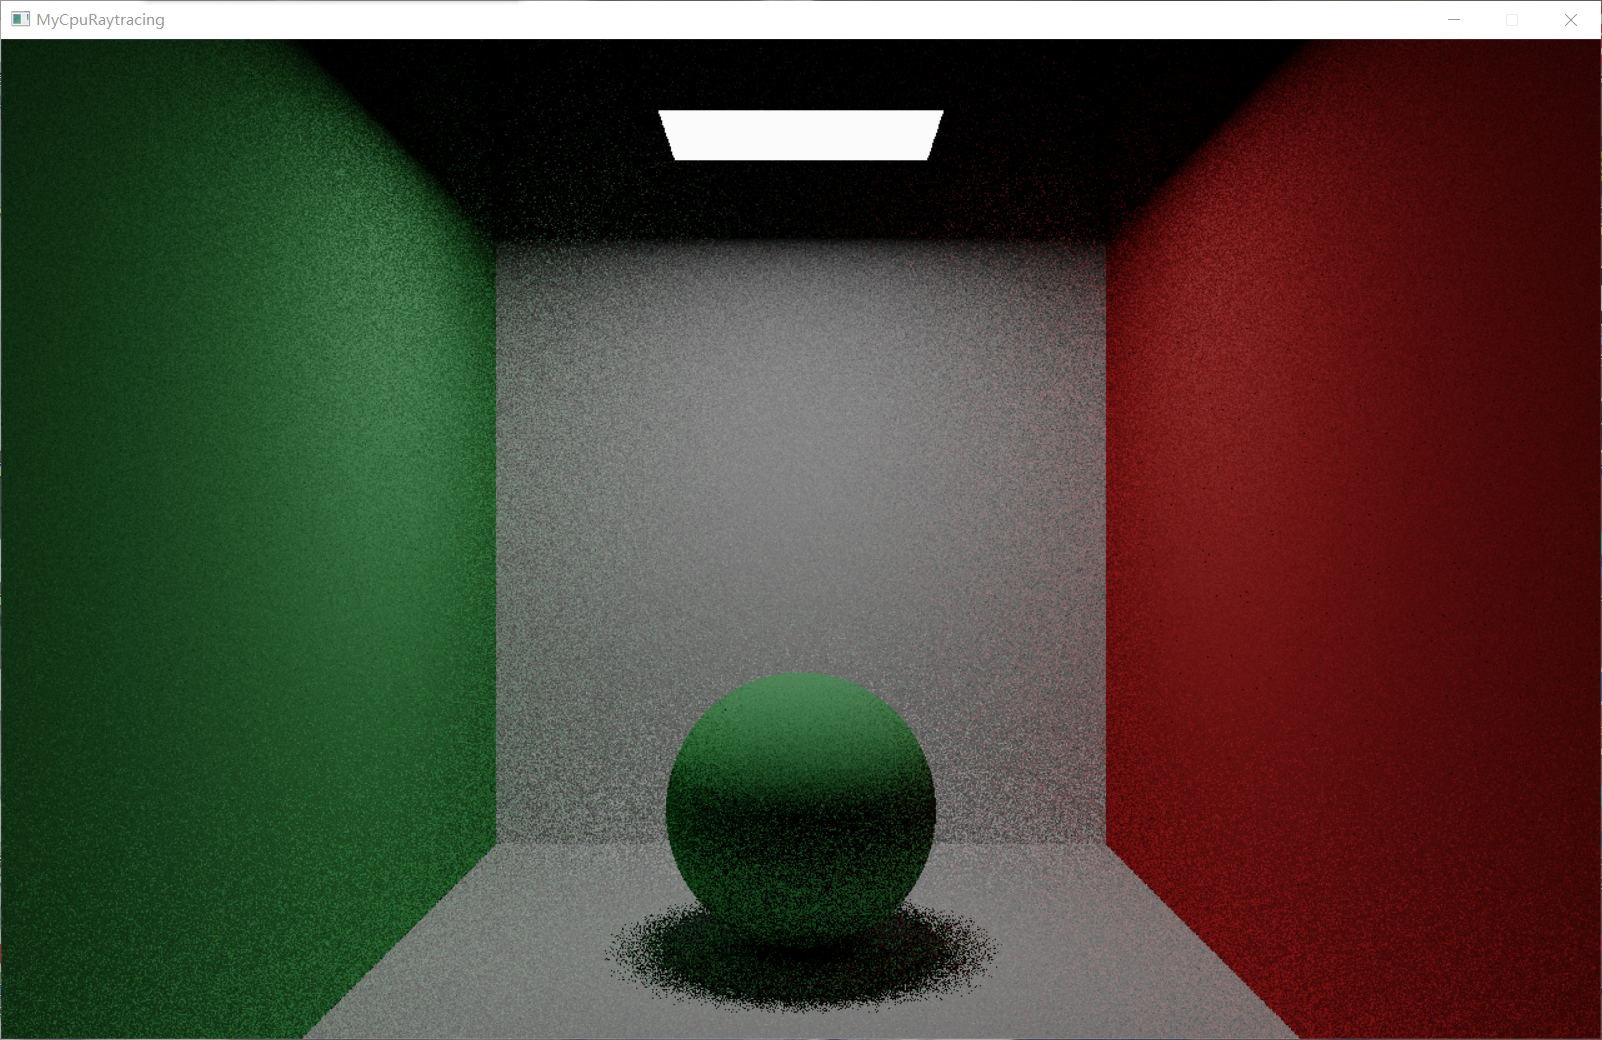
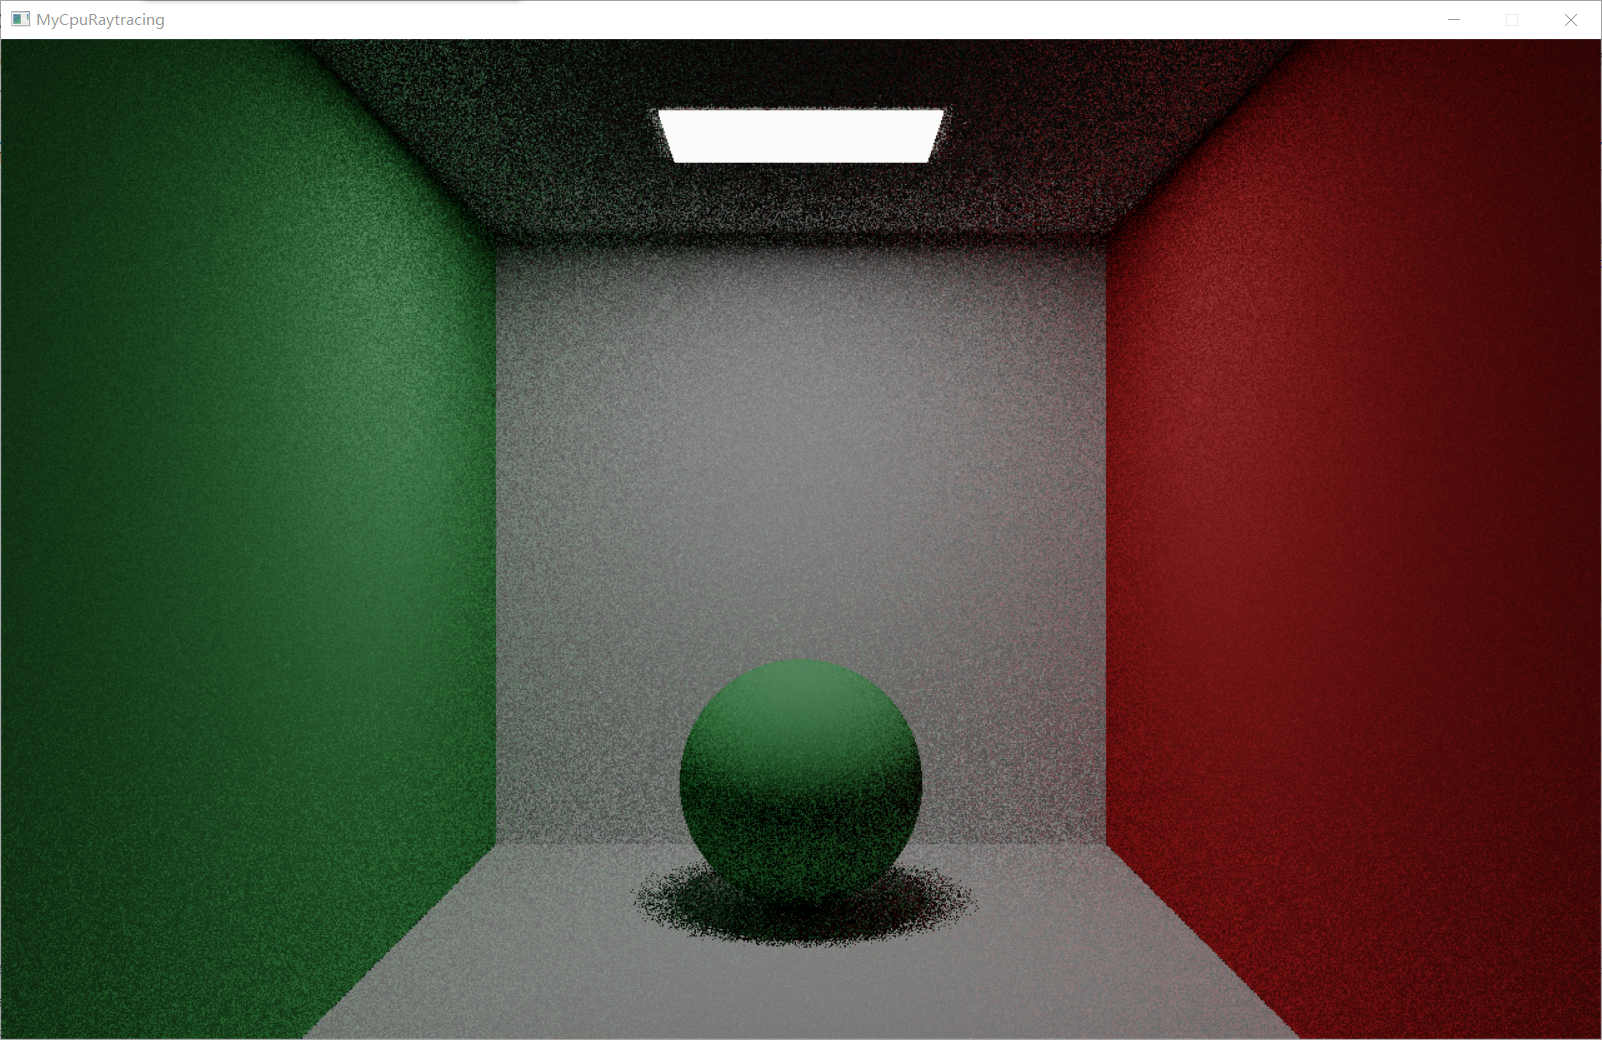
bug fix + Multi Importance Sampling Test

Changed region(s): [[0.0, 0.0, 1.0, 1.0], [0.437, 0.6154, 0.5306, 0.6769]]

diff --git a/src/main.cpp b/src/main.cpp
@@ -64,7 +64,7 @@ int main(int argc, char* argv[])
 	std::shared_ptr<DiffuseMaterial>  green_diffuse = std::make_shared<DiffuseMaterial>(TinyGlm::vec4<float>(0.12f, 0.45f, 0.15f), TinyGlm::vec3<float>(0.1f, 0.7f, 0.01f), 0.02f, 0.8f);
 	std::shared_ptr<DiffuseMaterial>  red_diffuse = std::make_shared<DiffuseMaterial>(TinyGlm::vec4<float>(0.65f, 0.05f, 0.05f), TinyGlm::vec3<float>(0.9f, 0.5f, 0.3f), 0.02f, 0.2f);
 
-	TinyGlm::vec4<float> lightcolor = ( TinyGlm::vec4<float>(0.747f + 0.058f, 0.747f + 0.258f, 0.747f) * 8.0f  +  TinyGlm::vec4<float>(0.740f + 0.287f, 0.740f + 0.160f, 0.740f) * 15.6f +  TinyGlm::vec4<float>(0.737f + 0.642f, 0.737f + 0.159f, 0.737f) * 18.4f);
+	TinyGlm::vec4<float> lightcolor = ( TinyGlm::vec4<float>(0.747f + 0.058f, 0.747f + 0.258f, 0.747f) *8.0f  +  TinyGlm::vec4<float>(0.740f + 0.287f, 0.740f + 0.160f, 0.740f) * 15.6f +  TinyGlm::vec4<float>(0.737f + 0.642f, 0.737f + 0.159f, 0.737f) * 18.4f);
 	std::shared_ptr<DiffuseMaterial> light = std::make_shared<DiffuseMaterial>(TinyGlm::vec4<float>(35.f, 35.f,35.f), TinyGlm::vec3<float>(0.9f, 0.5f, 0.3f), 0.02f, 0.2f, true);
 
 
@@ -74,9 +74,10 @@ int main(int argc, char* argv[])
 	std::shared_ptr<Sphere>  right = std::make_shared<Sphere>(TinyGlm::vec3<float>(1051.5f, 0.f, 0.f), 1050.f, red_diffuse);
 	std::shared_ptr<Sphere>  left = std::make_shared<Sphere>(TinyGlm::vec3<float>(-1051.5f, 0.f, 0.f), 1050.f, green_diffuse);
 	std::shared_ptr<Sphere>  forward = std::make_shared<Sphere>(TinyGlm::vec3<float>(0.f, 0.f, 1056.f), 1050.f, white_diffuse);
-	std::shared_ptr<Sphere>  up = std::make_shared<Sphere>(TinyGlm::vec3<float>(0.f, 1051.5f,0.f), 150.f, white_diffuse);
+	std::shared_ptr<Sphere>  up = std::make_shared<Sphere>(TinyGlm::vec3<float>(0.f, 1051.5f,0.f), 1050.f, white_diffuse);
 	std::shared_ptr<Sphere>  down = std::make_shared<Sphere>(TinyGlm::vec3<float>(0.f, -1051.5f, 0.f), 1050.f, white_diffuse);
 	std::shared_ptr<Sphere>  back = std::make_shared<Sphere>(TinyGlm::vec3<float>(0.f, 0.f, -1056.f), 1050.f, black_diffuse);
+
 	// Rectangles simulates the Cornell box (Todo)
 	//TinyGlm::vec3<float> A = TinyGlm::vec3<float>(-50.f, 1.5f, -50.f);
 	//TinyGlm::vec3<float> B = TinyGlm::vec3<float>(50.f, 1.5f, -50.f);
@@ -97,10 +98,10 @@ int main(int argc, char* argv[])
 	//Sphere
 	std::shared_ptr<Sphere>  sphere = std::make_shared<Sphere>(TinyGlm::vec3<float>(-0.6f, -1.f, 5.0f), 0.5f, pbr_high_roughness_red);
 	std::shared_ptr<Sphere>  sphere1 = std::make_shared<Sphere>(TinyGlm::vec3<float>(0.6f, -1.f, 5.0f), 0.5f, pbr_low__roughness_green);
-	std::shared_ptr<Sphere>  sphere_center = std::make_shared<Sphere>(TinyGlm::vec3<float>(0.0f, -1.f, 5.0f), 0.5f, pbr_high_roughness_red);
+	std::shared_ptr<Sphere>  sphere_center = std::make_shared<Sphere>(TinyGlm::vec3<float>(0.0f, -1.f, 5.0f), 0.5f, green_diffuse);
 	//Light
 	std::shared_ptr<Sphere>  point_light = std::make_shared<Sphere>(TinyGlm::vec3<float>(0.f, 0.5f, 5.f),0.2f, light);
-	std::shared_ptr<Rectangles>  rectangle_light = std::make_shared<Rectangles>(TinyGlm::vec3<float>(-0.5f, 1.5f, 4.25f), TinyGlm::vec3<float>(0.5f, 1.5f, 4.25f), TinyGlm::vec3<float>(0.5f, 1.5f, 4.75f), TinyGlm::vec3<float>(-0.5f, 1.5f, 4.75f), light);
+	std::shared_ptr<Rectangles>  rectangle_light = std::make_shared<Rectangles>(TinyGlm::vec3<float>(-0.5f, 1.49999f, 4.25f), TinyGlm::vec3<float>(0.5f, 1.49999f, 4.25f), TinyGlm::vec3<float>(0.5f, 1.49999f, 4.75f), TinyGlm::vec3<float>(-0.5f, 1.49f, 4.75f), light);
 
 	//Init the Thread Pool
 	InitThreadPool();
@@ -114,9 +115,10 @@ int main(int argc, char* argv[])
 	scene.AddObj(back);
 
 
-	scene.AddObj(sphere);
-	scene.AddObj(sphere1);
-	//scene.AddObj(sphere_center); 
+	//scene.AddObj(sphere);
+	//scene.AddObj(sphere1);
+	scene.AddObj(sphere_center); 
+
 	//Add Light
 	//scene.AddLight(point_light);
 	scene.AddLight(rectangle_light);

diff --git a/include/mylib/Utils.h b/include/mylib/Utils.h
@@ -85,6 +85,16 @@ public:
         return result;
     }
 
+    static float get_mis_weight(float pdf,const std::vector<float>& pdf_list)
+    {
+        float result = 0.0f;
+        float total = 0.0f;
+        for (size_t i = 0; i < pdf_list.size(); i++)
+        {
+            total += pdf_list[i] * pdf_list[i];
+        }
+        return pdf * pdf / total;
+    }
 
 };
 #endif //_UTILS_

diff --git a/src/Renderer.cpp b/src/Renderer.cpp
@@ -42,7 +42,7 @@ void RenderFrame(std::pair<int, int> x, std::pair<int, int> y, Scene& scene, std
 	int m = 0;
 	int spp = 1;
 	float imageAspectRatio = scene.width / (float)scene.height;
-	float scale = tan(deg2rad(scene.fov * 0.5));
+	float scale = tan(deg2rad(scene.fov * 0.5f));
 	int int_X = 0, int_Y = 0;
 	for (int j = y.first; j < y.second; ++j) 
 	{
